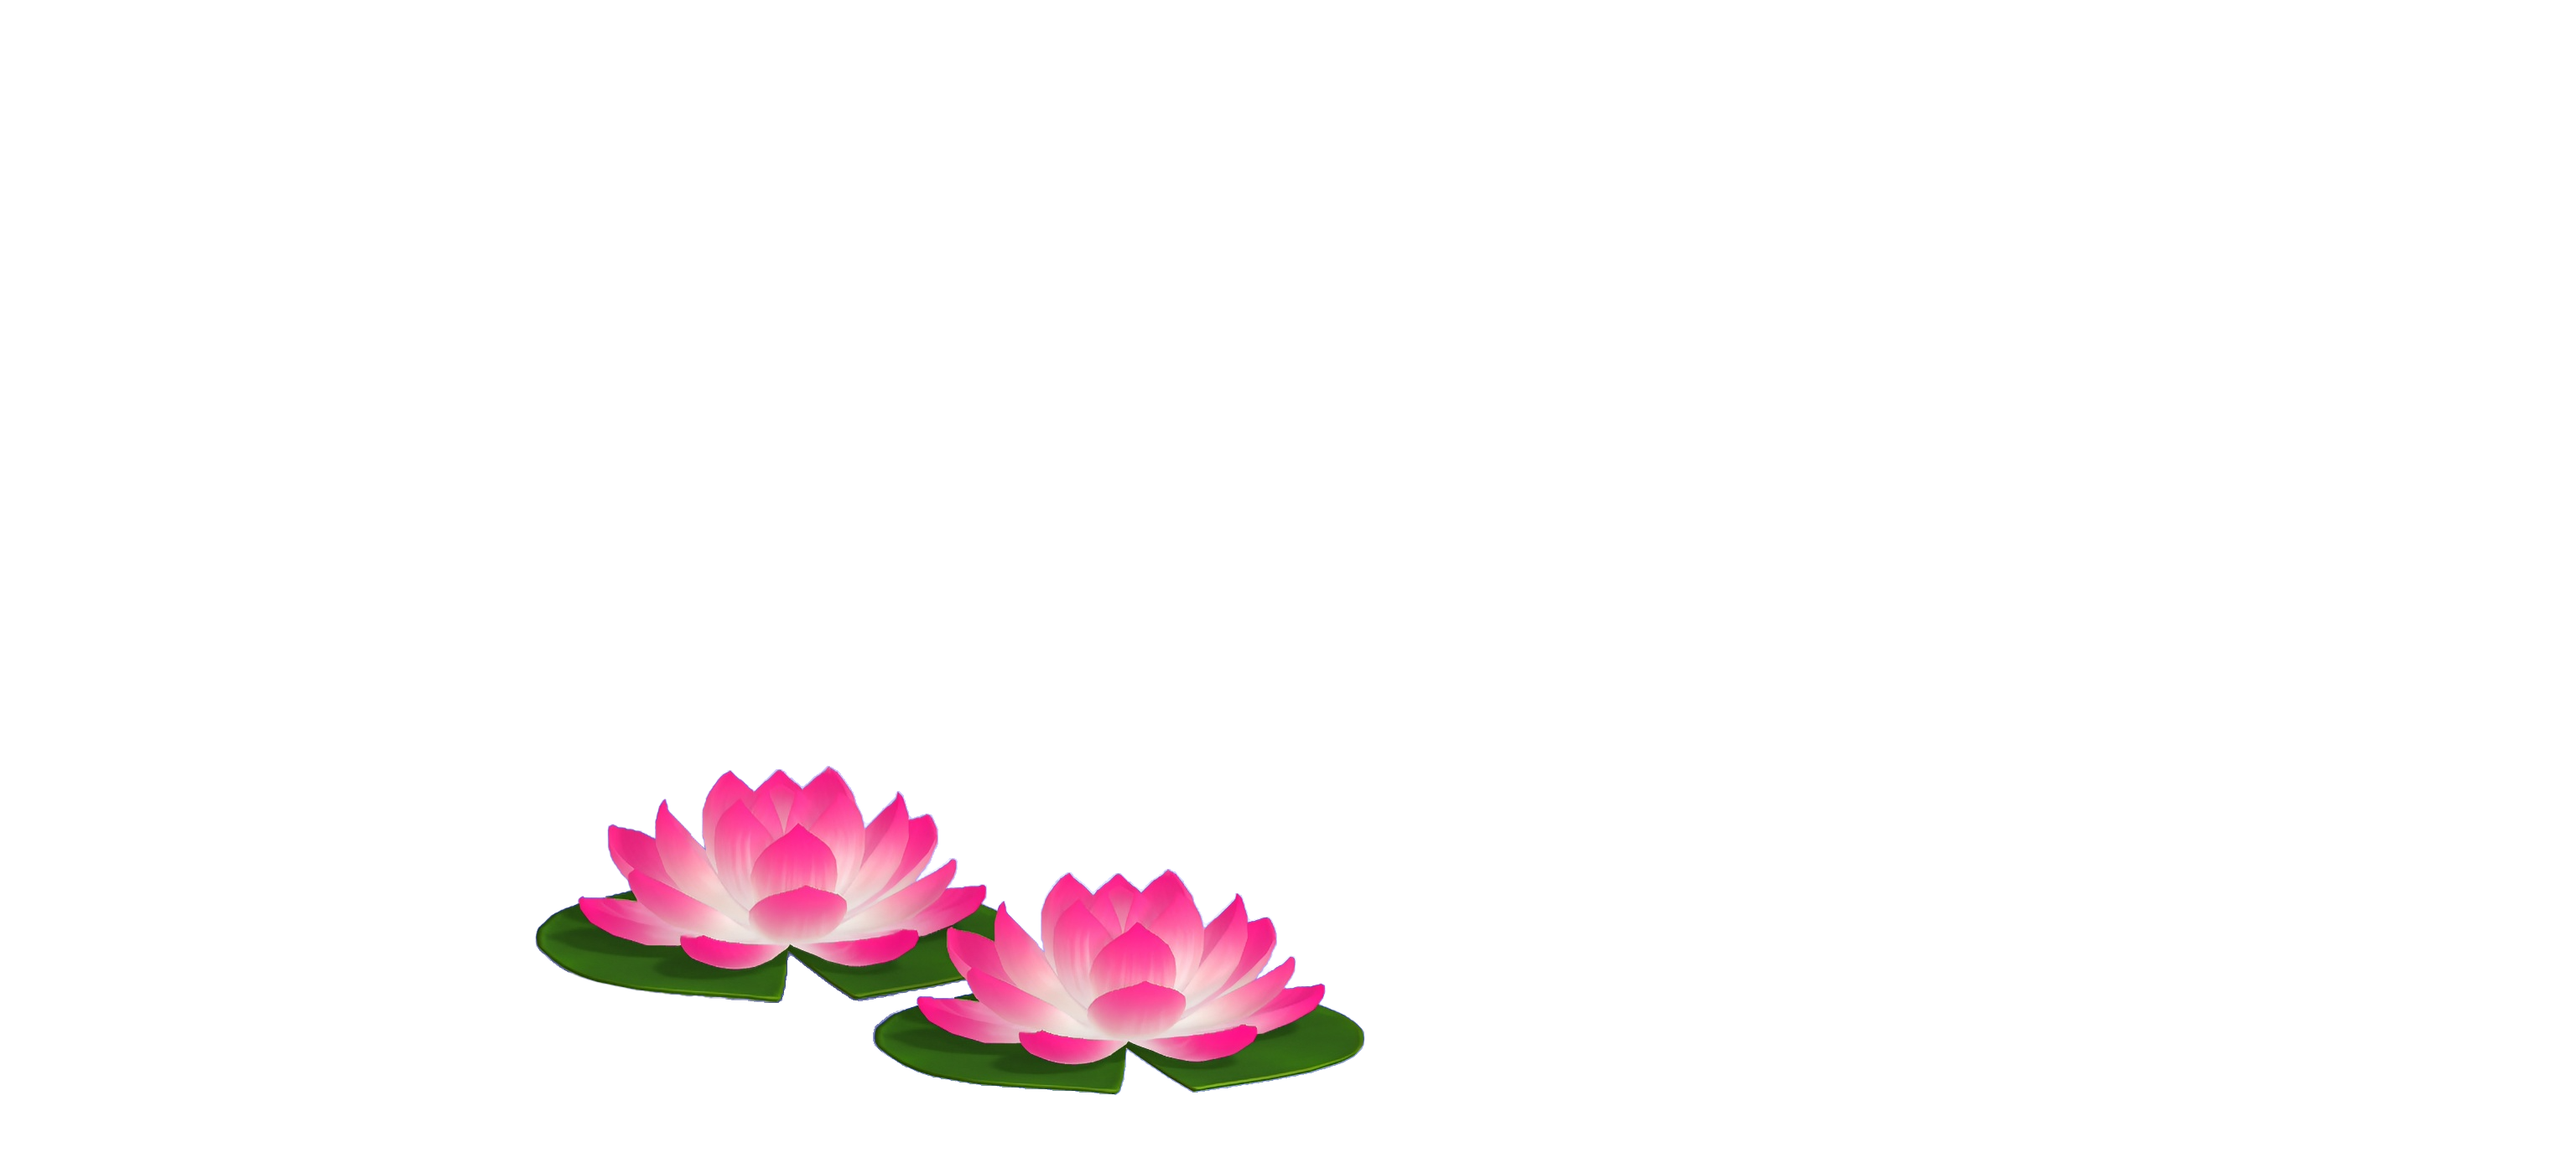
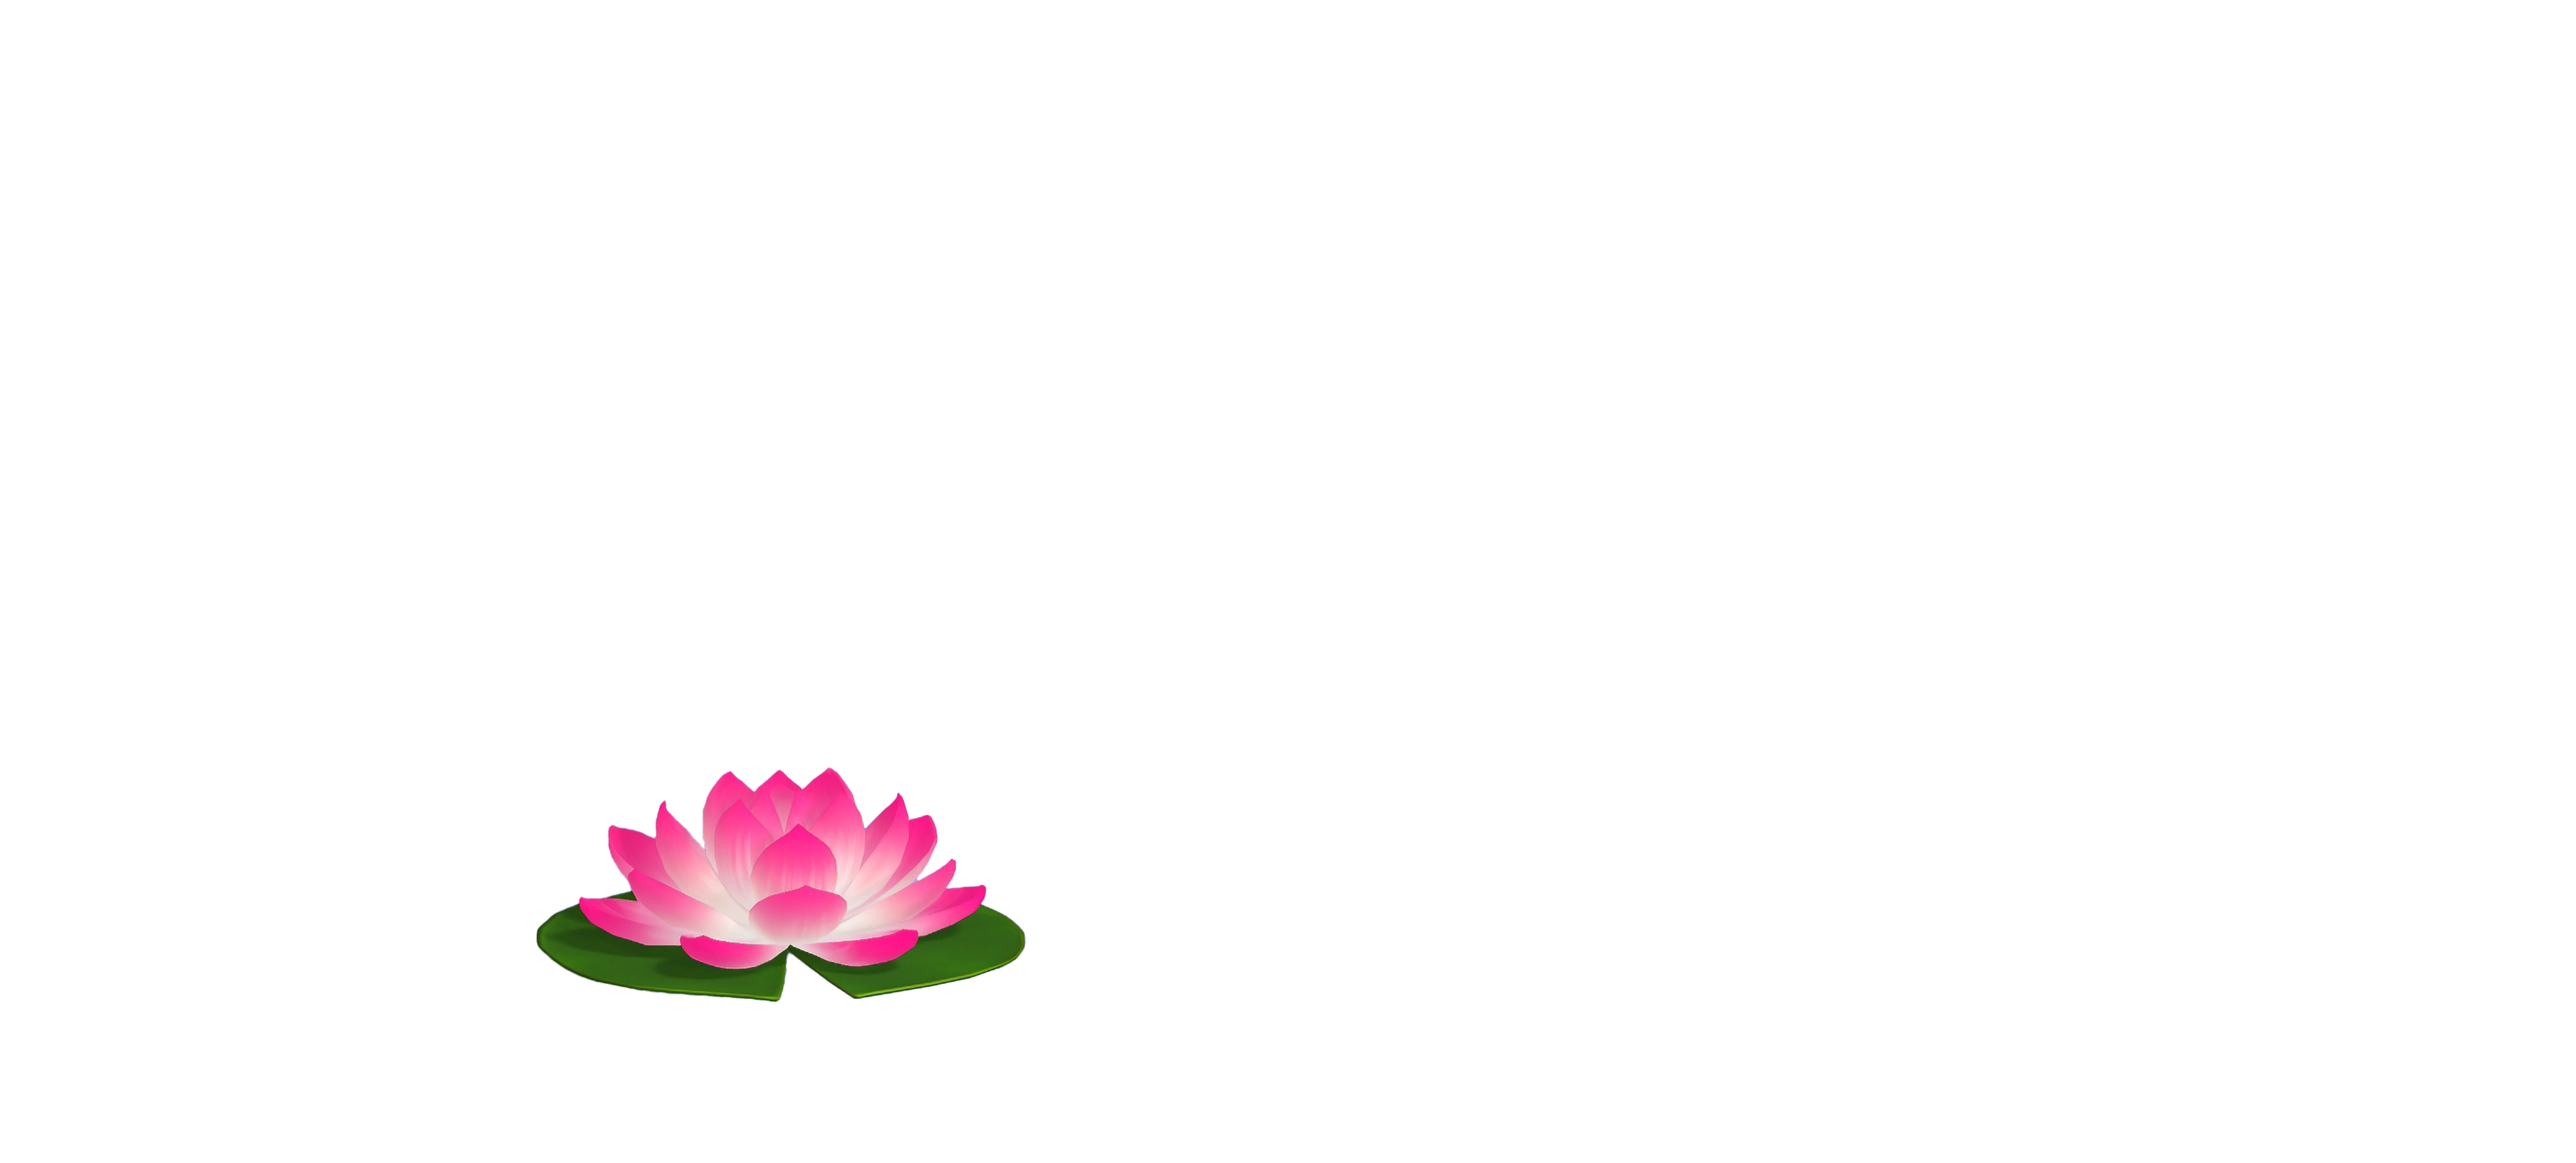
Feat: seperated all lilypad layers

Changed region(s): [[0.3125, 0.7435, 0.5312, 0.9604]]

diff --git a/src/pages/home/home.css b/src/pages/home/home.css
@@ -48,6 +48,16 @@
     animation: drift3 4s ease-in-out infinite alternate;
 } 
 
+.plain4 {  
+    background-image: url('/home/lilies-plain4.png');
+    animation: drift1 4s ease-in-out infinite alternate;
+} 
+
+.plain5 {  
+    background-image: url('/home/lilies-plain5.png');
+    animation: drift2 4s ease-in-out infinite alternate;
+} 
+
 @keyframes drift1 {
   0% {
     transform: translate(0, 0);

diff --git a/src/pages/home/Home.tsx b/src/pages/home/Home.tsx
@@ -8,6 +8,8 @@ function Home() {
       <div className="lilies plain1"></div>
       <div className="lilies plain2"></div>
       <div className="lilies plain3"></div>
+      <div className="lilies plain4"></div>
+      <div className="lilies plain5"></div>
       <svg>
         <filter id="turbulence" x="0" y="0" width="100%" height="100%">
           <feTurbulence
